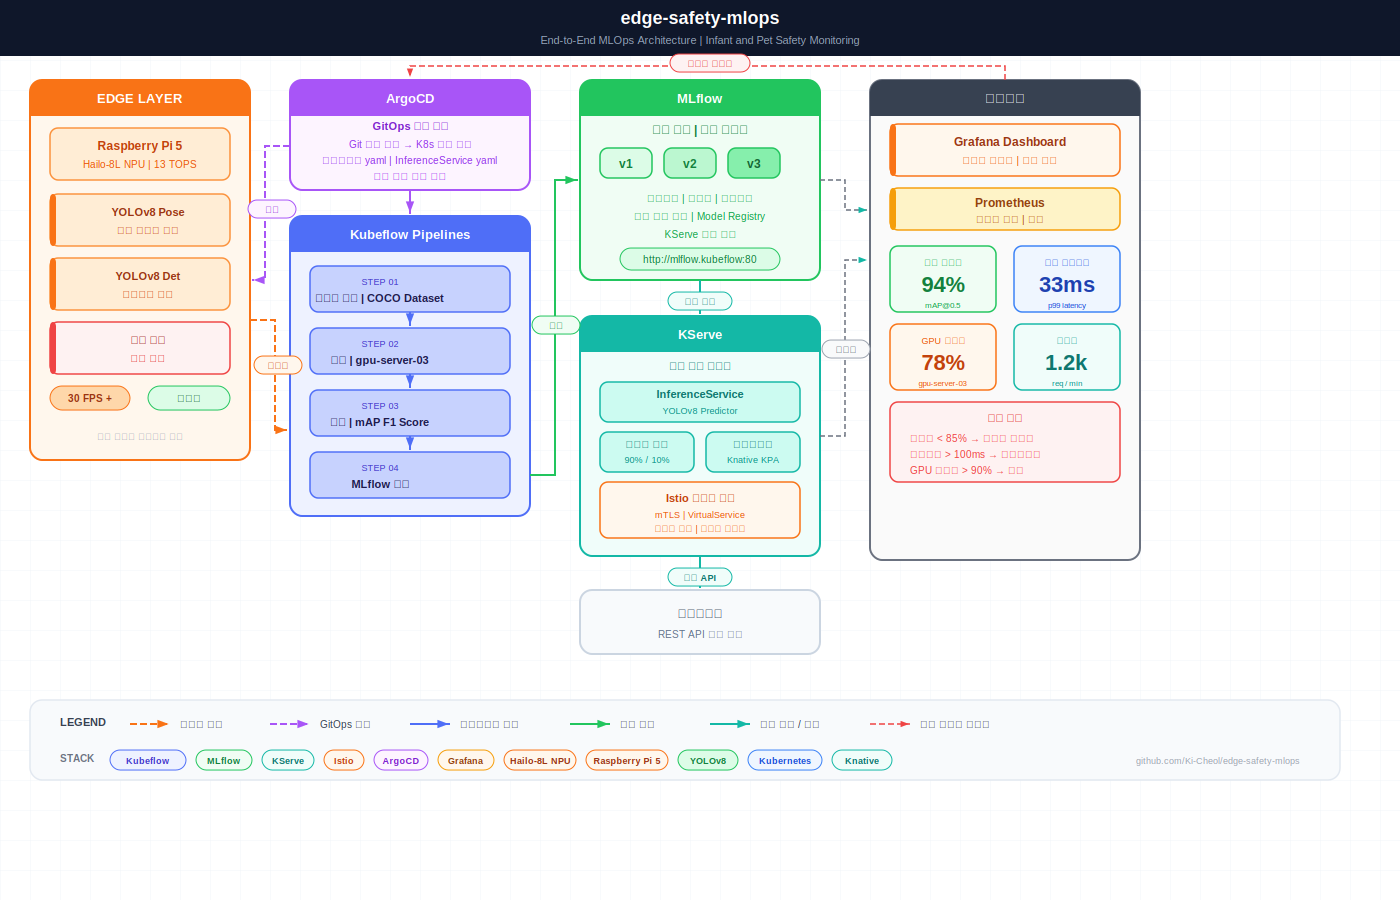
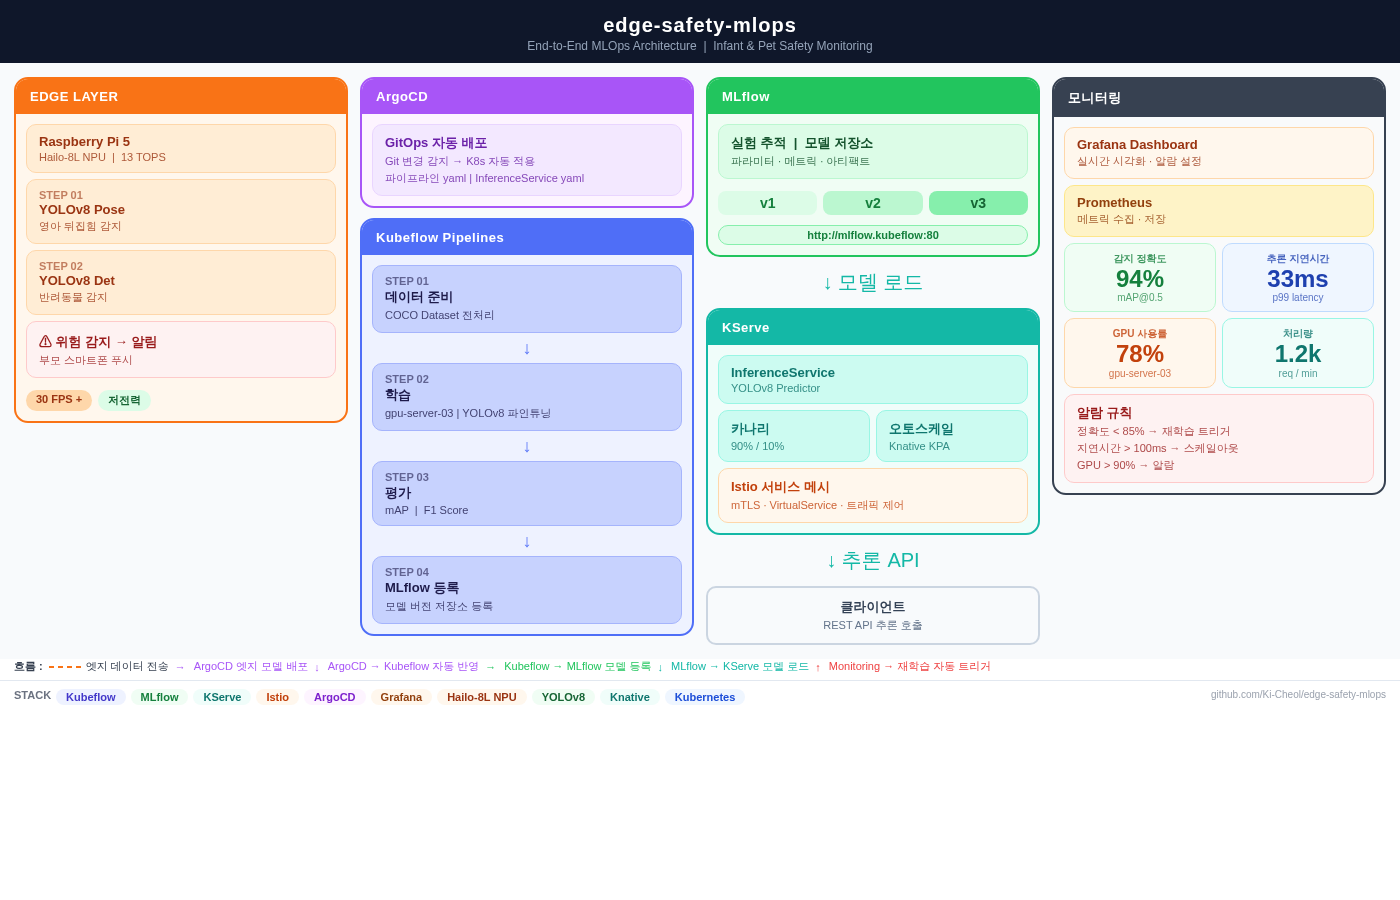
docs: update architecture diagram from HTML render

diff --git a/README.md b/README.md
@@ -18,9 +18,7 @@
 
 ## 🏗 아키텍처
 
-[![edge-safety-mlops Architecture](docs/images/architecture.png)](docs/images/architecture.html)
-
-> 📐 인터랙티브 아키텍처 다이어그램: [architecture.html](docs/images/architecture.html)
+![edge-safety-mlops Architecture](docs/images/architecture.png)
 
 ---
 
